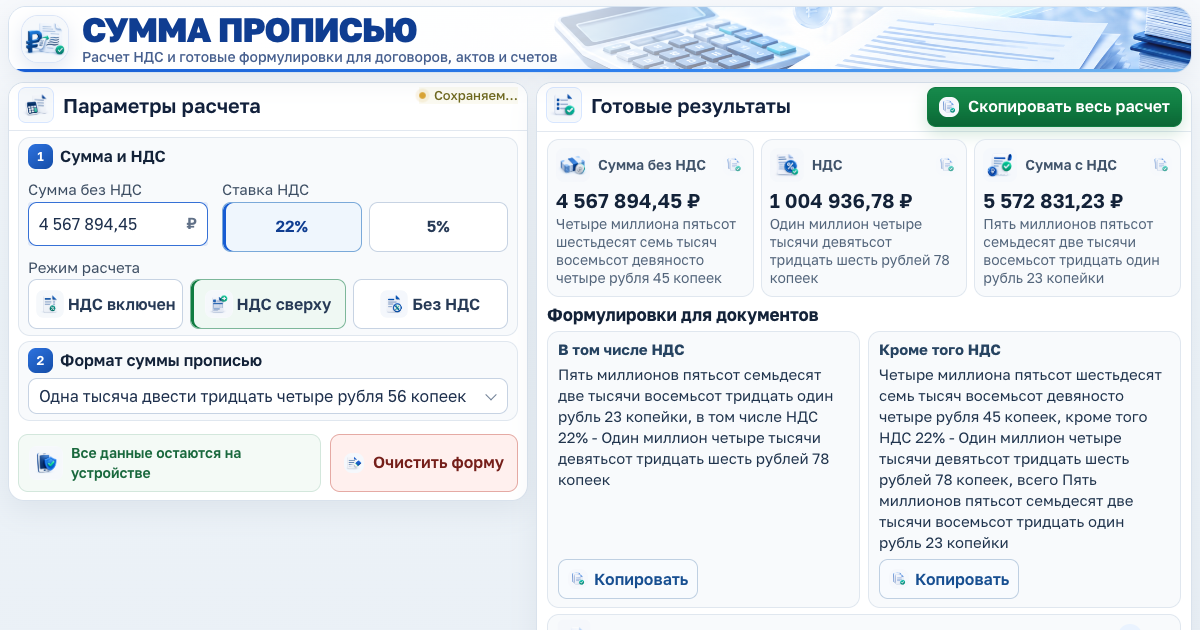
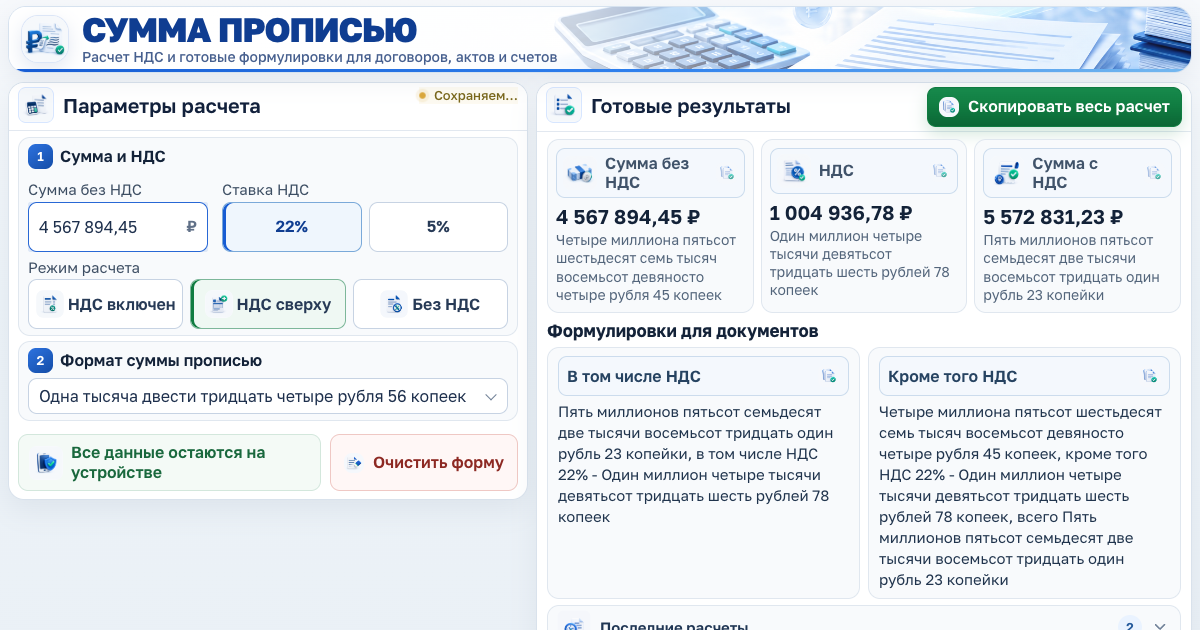
Refine result copying and control sizing

diff --git a/index.html b/index.html
@@ -223,20 +223,20 @@
         </div>
 
         <div class="summary-grid" aria-label="Итоги расчета">
-          <article class="summary-card summary-card-blue copy-target" data-copy-key="base" tabindex="0" role="button" aria-label="Скопировать сумму без НДС">
-            <div class="summary-card-top"><span class="summary-card-icon" aria-hidden="true"><img src="assets/generated-icons/base-amount-v2.7.png" alt=""></span><span class="summary-label">Сумма без НДС</span><span class="summary-copy-icon" aria-hidden="true"><img src="assets/generated-icons/copy-v2.7.png" alt=""></span></div>
+          <article class="summary-card summary-card-blue">
+            <button class="summary-card-top result-copy-heading" type="button" data-copy-key="base" aria-label="Скопировать сумму без НДС"><span class="summary-card-icon" aria-hidden="true"><img src="assets/generated-icons/base-amount-v2.7.png" alt=""></span><span class="summary-label">Сумма без НДС</span><span class="summary-copy-icon" aria-hidden="true"><img src="assets/generated-icons/copy-v2.7.png" alt=""></span></button>
             <strong class="summary-number" id="baseAmount">0,00 ₽</strong>
             <span class="summary-words" id="baseLine">0 (Ноль) рублей 00 копеек</span>
           </article>
 
-          <article class="summary-card summary-card-green copy-target" data-copy-key="vat" tabindex="0" role="button" aria-label="Скопировать сумму НДС">
-            <div class="summary-card-top"><span class="summary-card-icon" aria-hidden="true"><img src="assets/generated-icons/vat-amount-v2.7.png" alt=""></span><span class="summary-label">НДС</span><span class="summary-copy-icon" aria-hidden="true"><img src="assets/generated-icons/copy-v2.7.png" alt=""></span></div>
+          <article class="summary-card summary-card-green">
+            <button class="summary-card-top result-copy-heading" type="button" data-copy-key="vat" aria-label="Скопировать сумму НДС"><span class="summary-card-icon" aria-hidden="true"><img src="assets/generated-icons/vat-amount-v2.7.png" alt=""></span><span class="summary-label">НДС</span><span class="summary-copy-icon" aria-hidden="true"><img src="assets/generated-icons/copy-v2.7.png" alt=""></span></button>
             <strong class="summary-number" id="vatAmount">0,00 ₽</strong>
             <span class="summary-words" id="vatLine">0 (Ноль) рублей 00 копеек</span>
           </article>
 
-          <article class="summary-card summary-card-slate copy-target" data-copy-key="total" tabindex="0" role="button" aria-label="Скопировать сумму с НДС">
-            <div class="summary-card-top"><span class="summary-card-icon" aria-hidden="true"><img src="assets/generated-icons/total-amount-v2.7.png" alt=""></span><span class="summary-label">Сумма с НДС</span><span class="summary-copy-icon" aria-hidden="true"><img src="assets/generated-icons/copy-v2.7.png" alt=""></span></div>
+          <article class="summary-card summary-card-slate">
+            <button class="summary-card-top result-copy-heading" type="button" data-copy-key="total" aria-label="Скопировать сумму с НДС"><span class="summary-card-icon" aria-hidden="true"><img src="assets/generated-icons/total-amount-v2.7.png" alt=""></span><span class="summary-label">Сумма с НДС</span><span class="summary-copy-icon" aria-hidden="true"><img src="assets/generated-icons/copy-v2.7.png" alt=""></span></button>
             <strong class="summary-number" id="totalAmount">0,00 ₽</strong>
             <span class="summary-words" id="totalLine">0 (Ноль) рублей 00 копеек</span>
           </article>
@@ -246,15 +246,13 @@
           <div class="phrase-section-heading"><h3>Формулировки для документов</h3></div>
 
           <article class="phrase-card phrase-card-primary" id="fullLineCard">
-            <div class="phrase-card-top"><h4 id="fullLineTitle">В том числе НДС</h4></div>
+            <div class="phrase-card-top"><h4><button class="phrase-heading-button phrase-copy-button" type="button" data-copy-key="full" aria-label="Скопировать формулировку в том числе НДС"><span id="fullLineTitle">В том числе НДС</span><span class="phrase-heading-copy-icon" aria-hidden="true"><img src="assets/generated-icons/copy-v2.7.png" alt=""></span></button></h4></div>
             <p id="fullLineText"></p>
-            <div class="phrase-card-actions"><button class="copy-chip phrase-copy-button" type="button" data-copy-key="full" aria-label="Скопировать формулировку в том числе НДС"><img src="assets/generated-icons/copy-v2.7.png" alt="" aria-hidden="true"><span>Копировать</span></button></div>
           </article>
 
           <article class="phrase-card" id="aboveLineCard">
-            <div class="phrase-card-top"><h4 id="aboveLineTitle">Кроме того НДС</h4></div>
+            <div class="phrase-card-top"><h4><button class="phrase-heading-button phrase-copy-button" type="button" data-copy-key="above" aria-label="Скопировать формулировку кроме того НДС"><span id="aboveLineTitle">Кроме того НДС</span><span class="phrase-heading-copy-icon" aria-hidden="true"><img src="assets/generated-icons/copy-v2.7.png" alt=""></span></button></h4></div>
             <p id="aboveLineText"></p>
-            <div class="phrase-card-actions"><button class="copy-chip phrase-copy-button" type="button" data-copy-key="above" aria-label="Скопировать формулировку кроме того НДС"><img src="assets/generated-icons/copy-v2.7.png" alt="" aria-hidden="true"><span>Копировать</span></button></div>
           </article>
         </div>
 

diff --git a/assets/styles-v2.7.css b/assets/styles-v2.7.css
@@ -4983,3 +4983,133 @@ select,
     height: 28px;
   }
 }
+
+/* v3.0.1: ровные контролы, умеренная ширина и копирование из заголовков */
+@media (min-width: 701px) {
+  .amount-wrap,
+  #amount,
+  .rate-option > span {
+    height: 50px;
+    min-height: 50px;
+  }
+}
+
+@media (min-width: 2200px) {
+  .app-shell {
+    width: min(2140px, calc(100% - 96px));
+  }
+}
+
+@media (min-width: 3300px) {
+  .app-shell {
+    width: min(2600px, calc(100% - 160px));
+  }
+}
+
+.form-footer-row .privacy-note strong,
+.form-footer-row .button {
+  font-size: var(--type-base) !important;
+  line-height: 1.2;
+}
+
+.summary-card {
+  cursor: default;
+  -webkit-user-select: text;
+  user-select: text;
+}
+
+.result-copy-heading {
+  width: 100%;
+  display: grid;
+  grid-template-columns: 34px minmax(0, 1fr) 22px;
+  align-items: center;
+  gap: 8px;
+  margin: 0;
+  padding: 5px 6px;
+  color: inherit;
+  border: 1px solid #ccdced;
+  border-radius: 9px;
+  background: #f4f8fd;
+  cursor: pointer;
+  text-align: left;
+  transition: border-color .16s ease, background .16s ease, box-shadow .16s ease;
+}
+
+.result-copy-heading .summary-label,
+.phrase-heading-button {
+  font-family: var(--font-ui) !important;
+  font-size: var(--type-base) !important;
+  font-weight: 600;
+  line-height: 1.2;
+}
+
+.result-copy-heading:hover,
+.phrase-heading-button:hover {
+  border-color: #bdd0e5;
+  background: #edf5ff;
+}
+
+.result-copy-heading:focus-visible,
+.phrase-heading-button:focus-visible {
+  outline: none;
+  box-shadow: var(--focus);
+}
+
+.result-copy-heading[data-copied="true"],
+.phrase-heading-button[data-copied="true"] {
+  color: #0f6539;
+  border-color: #89bfa2;
+  background: #edf8f2;
+}
+
+.summary-card > .summary-number,
+.summary-card > .summary-words {
+  cursor: text;
+  -webkit-user-select: text;
+  user-select: text;
+}
+
+.phrase-card-top,
+.phrase-card-top h4 {
+  width: 100%;
+}
+
+.phrase-card-top h4 {
+  margin: 0;
+}
+
+.phrase-heading-button {
+  width: 100%;
+  min-height: 40px;
+  display: flex;
+  align-items: center;
+  justify-content: space-between;
+  gap: 10px;
+  margin: 0;
+  padding: 6px 8px;
+  color: #264361;
+  border: 1px solid #ccdced;
+  border-radius: 9px;
+  background: #f4f8fd;
+  cursor: pointer;
+  text-align: left;
+  transition: border-color .16s ease, background .16s ease, box-shadow .16s ease;
+}
+
+.phrase-heading-copy-icon,
+.phrase-heading-copy-icon img {
+  width: 22px;
+  height: 22px;
+  flex: 0 0 22px;
+}
+
+.phrase-heading-copy-icon {
+  overflow: hidden;
+  border-radius: 7px;
+  background: #f7f9fc;
+}
+
+.phrase-heading-copy-icon img {
+  display: block;
+  object-fit: cover;
+}

diff --git a/service-worker.js b/service-worker.js
@@ -1,7 +1,7 @@
 "use strict";
 
 const CACHE_PREFIX = "summa-propisyu-";
-const CACHE_NAME = "summa-propisyu-v3.0-20260913-release3";
+const CACHE_NAME = "summa-propisyu-v3.0-20260913-release4";
 const OFFLINE_URL = "./index.html";
 const APP_SHELL = [
   "./index.html",
